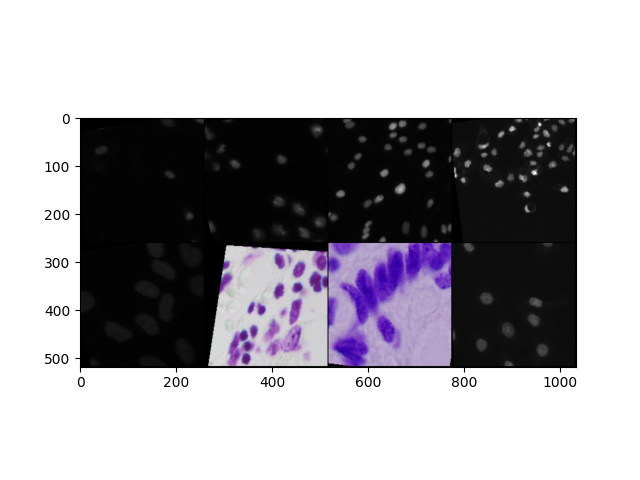
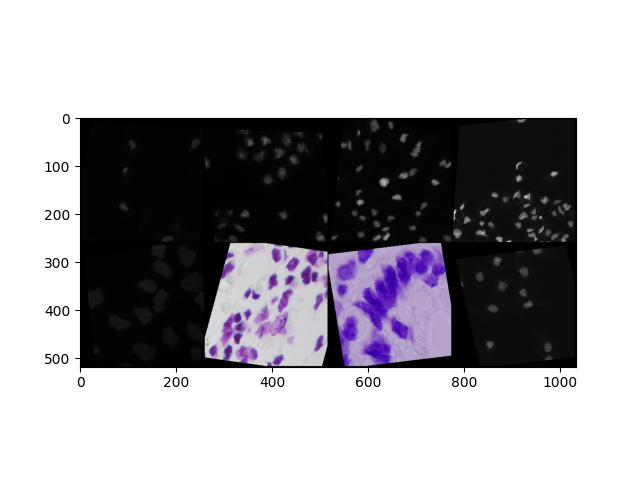
Added wide-resnet50 with skip connections and elastic transformation

diff --git a/models/my_models.py b/models/my_models.py
@@ -292,11 +292,115 @@ class wide_resnet101_seg(nn.Module):
             return torch.optim.SGD(self.parameters(), lr=lr, momentum=0.9)
 
 
+#############################################################
+# SEGNET WITH PRETRAINED WIDE_RESNET50 AND SKIP CONNECTIONS #
+#############################################################
+
+class up_block_skip(nn.Module):
+    '''
+    Basic convolutional block for the upsampling part of the
+    wide-resnet for segmentation with skip connections
+    '''
+    def __init__(self, in_channels, skip_channels):
+        super(up_block_skip, self).__init__()
+        self.up_layers = nn.Sequential(
+            nn.ConvTranspose2d(in_channels, in_channels//2, kernel_size=2, stride=2),
+            nn.BatchNorm2d(in_channels//2),
+            nn.ReLU(inplace=True)
+        )
+        self.conv_block = nn.Sequential(
+            nn.Conv2d((in_channels//2)+skip_channels, ((in_channels//2)+skip_channels)//2, kernel_size=3, stride=1, padding=1),
+            nn.BatchNorm2d(((in_channels//2)+skip_channels)//2),
+            nn.ReLU(inplace=True)
+        )    
+
+    def forward(self, x, x_skip):
+        x = self.up_layers(x)
+        x_cat = torch.cat([x, x_skip], dim=1)
+        return self.conv_block(x_cat)
+
+
+class wide_resnet50_seg_skip(nn.Module):
+    def __init__(self, out_channels=1):
+        super(wide_resnet50_seg_skip, self).__init__()
+
+        pretrained_wide_resnet50 = wide_resnet50_2(pretrained=True)
+        # Get the list of modules of the net
+        wide_resnet50_modules = list(pretrained_wide_resnet50.children())
+
+        # Take the first conv block
+        self.conv1 = wide_resnet50_modules[0]
+        self.bn1 = wide_resnet50_modules[1]
+        self.relu1 = wide_resnet50_modules[2]
+        self.maxpool1 = wide_resnet50_modules[3]
+        # To correct the size of the tensor to concatenate it before the last conv block
+        self.skip_correction = nn.ConvTranspose2d(64, 64, kernel_size=2, stride=2)
+        # Get the bottleneck blocks from the submodules
+        bottleneck_chain = list(wide_resnet50_modules[4].children())
+        self.bottleneck1 = bottleneck_chain[0]
+        self.bottleneck2 = bottleneck_chain[1]
+        self.bottleneck3 = bottleneck_chain[2]
+        # Get the bottleneck blocks from the submodules
+        bottleneck_chain = list(wide_resnet50_modules[5].children())
+        self.bottleneck4 = bottleneck_chain[0]
+        self.bottleneck5 = bottleneck_chain[1]
+        self.bottleneck6 = bottleneck_chain[2]
+        self.bottleneck7 = bottleneck_chain[3]
+        # Create the upsampling blocks
+        self.up_block1 = up_block_skip(512, 256)
+        self.up_block2 = up_block_skip(256, 64)
+        self.up_block3 = up_block_skip(96, 64)
+        # Create the block to reduce channels
+        self.squeeze_block = squeeze_block(56, out_channels)
+        # Create the output activation function
+        if out_channels == 1:
+            self.act = nn.Sigmoid()
+        else:
+            self.act = nn.Softmax2d()
+
+    def forward(self, x):
+        x1 = self.conv1(x)
+        x2 = self.bn1(x1)
+        x3 = self.relu1(x2)
+        x_skip = self.skip_correction(x3)
+        x4 = self.maxpool1(x3)
+        x5 = self.bottleneck1(x4)
+        x6 = self.bottleneck2(x5)
+        x7 = self.bottleneck3(x6)
+        x8 = self.bottleneck4(x7)
+        x9 = self.bottleneck5(x8)
+        x10 = self.bottleneck6(x9)
+        x11 = self.bottleneck6(x10)
+        x12 = self.up_block1(x11, x7)
+        x13 = self.up_block2(x12, x3)
+        x14 = self.up_block3(x13, x_skip)
+        x15 = self.squeeze_block(x14)
+        return self.act(x15)
+
+    def set_freeze(self, flag):
+        '''
+        set the freeze for the weights of the pretrained wide-resnet50
+        '''
+        for name, param in self.named_parameters():
+            if not name.startswith("skip") and not name.startswith("up") and not name.startswith("squeeze"):
+                param.requires_grad = not flag
+
+    def get_criterion(self):
+        # This loss combines sigmoid layer with BCELoss for better numerical stability
+        return nn.BCEWithLogitsLoss()
+
+    def get_optimizer(self, opt="Adam", lr=0.0002):
+        if opt == "Adam":
+            return torch.optim.Adam(self.parameters(), lr=lr)
+        elif opt == "SGD":
+            return torch.optim.SGD(self.parameters(), lr=lr, momentum=0.9)
+
 
 if __name__ == "__main__":
-    model = wide_resnet50_seg()
+    model = wide_resnet50_seg_skip()
     dummy_input = torch.zeros((16, 3, 256, 256))
     output = model(dummy_input)
     print(model)
     print(output.shape)
+    model.set_freeze(True)
 

diff --git a/train.py b/train.py
@@ -9,7 +9,7 @@ from torchvision import transforms
 from matplotlib import pyplot as plt
 from lib.data_generators import Cells_dataset
 from lib.utils import *
-from models.my_models import U_net, wide_resnet50_seg, wide_resnet101_seg
+from models.my_models import U_net, wide_resnet50_seg, wide_resnet50_seg_skip, wide_resnet101_seg
 
 ##########################
 # Check computing device #
@@ -45,11 +45,12 @@ batch_size = 32
 The available model architectures are:
 - "u-net"
 - "wide-resnet50"
+- "wide-resnet50-skip"
 - "wide-resnet101"
 '''
-model_name = "wide-resnet101"
+model_name = "wide-resnet50-skip"
 
-# Freeze config ** ONLY FOR wide-resnet50 and wide-resnet101 **
+# Freeze config ** ONLY FOR resnet models **
 freeze_epochs = 100  # Number of epochs to train with pretrained weights frozen
 
 # Optimizer config
@@ -57,11 +58,12 @@ optimizer_name = "Adam"  # Options "Adam", "SGD"
 learning_rate = 0.001
 
 # Data loader settings
-data_augmentation = True
-make_crops = True   # For making random crops after the data agumentation
-num_workers = 2     # Processes for loading data in parallel
-multi_gpu = True    # Enables multi-gpu training if it is possible
-pin_memory = True   # Pin memory for extra speed loading batches in GPU
+data_augmentation = True    # To enable the basic data agumentation and the following features
+elastic_transform = True    # For making elastic transformations before the data augmentation
+make_crops = False          # For making random crops after the data agumentation
+num_workers = 2             # Processes for loading data in parallel
+multi_gpu = True            # Enables multi-gpu training if it is possible
+pin_memory = True           # Pin memory for extra speed loading batches in GPU
 
 # Enable tensorboard
 tensorboard = True
@@ -84,6 +86,7 @@ else:
     sys.exit()
 if data_augmentation: exp_name += "_DA"
 if make_crops: exp_name += "_crops"
+if elastic_transform: exp_name += "_elastic"
 
 print(f"\nGoing to run experiment {exp_name}")
 
@@ -94,7 +97,7 @@ print(f"\nGoing to run experiment {exp_name}")
 # Load dataset info
 data_df = pd.read_csv("../dataset/data_partition.csv")
 # Create train datagen
-train_dataset = Cells_dataset(data_df, "train", data_augmentation=data_augmentation, make_crops=make_crops)
+train_dataset = Cells_dataset(data_df, "train", data_augmentation=data_augmentation, make_crops=make_crops, elastic_transform=elastic_transform)
 train_datagen = DataLoader(train_dataset, batch_size=batch_size, shuffle=True, num_workers=num_workers, pin_memory=pin_memory)
 # Create develoment datagen
 dev_dataset = Cells_dataset(data_df, "dev")
@@ -110,6 +113,8 @@ if model_name == "u-net":
 elif model_name.startswith("wide-resnet"):
     if model_name == "wide-resnet50":
         model = wide_resnet50_seg()
+    if model_name == "wide-resnet50-skip":
+        model = wide_resnet50_seg_skip()
     elif model_name == "wide-resnet101":
         model = wide_resnet101_seg()
     if freeze_epochs > 0:
@@ -213,7 +218,8 @@ if tensorboard:
                     "batch_norm": use_batchnorm,
                     "dropout": dropout,
                     "data_augmentation": data_augmentation,
-                    "crops": make_crops},
+                    "crops": make_crops,
+                    "elastic_transform": elastic_transform},
                     {"hparam/loss": best_loss, "hparam/iou": dev_ious[best_epoch], "hparam/best_epoch": best_epoch})
 
 # Close the tensorboard writer

diff --git a/lib/data_generators.py b/lib/data_generators.py
@@ -1,6 +1,8 @@
 import torch
+import numpy as np
 from torchvision.transforms import functional as transformsF
 from random import random, randint, uniform
+from imgaug import augmenters as iaa
 
 class Cells_dataset(torch.utils.data.Dataset):
     '''
@@ -15,15 +17,18 @@ class Cells_dataset(torch.utils.data.Dataset):
                 - MaskPath -> path to mask output tensor
 
         partition -> Select the dataset partition of the generator. Can be "train" or "dev"
-	data_augmentation -> Flag to enable data augmentation
+        data_augmentation -> Flag to enable data augmentation
+        make_crops -> to enable random crops and then resizing after data augmentation
+        elastic_transform -> to enable elastic transformations before the data agumentation
     '''
-    def __init__(self, data_df, partition="train", data_augmentation=False, make_crops=False):
+    def __init__(self, data_df, partition="train", data_augmentation=False, make_crops=False, elastic_transform=False):
         
         self.partition = partition
         # Store the samples from the selected partition
         self.df = data_df[data_df["Partition"]==partition]
         self.data_augmentation = data_augmentation
         self.make_crops = make_crops
+        self.use_elastic_transform = elastic_transform
 
     '''
     Returns the number of samples in the dataset
@@ -54,6 +59,22 @@ class Cells_dataset(torch.utils.data.Dataset):
     def apply_data_augmentation(self, x_tensor, y_tensor):
 
         c, h, w = x_tensor.shape
+
+        if self.use_elastic_transform:
+            seed = randint(0, 10000)
+            # From channel first to channel last
+            x_tensor = np.einsum("kij->ijk", x_tensor.numpy())
+            y_tensor = np.einsum("kij->ijk", y_tensor.numpy())
+            # Apply the elastic transformation
+            elastic_transformation = iaa.ElasticTransformation(alpha=30, sigma=5, mode="nearest", seed=seed).to_deterministic()
+            x_tensor = elastic_transformation.augment_image(x_tensor) 
+            y_tensor = elastic_transformation.augment_image(y_tensor)
+            # From channel last to channel first
+            x_tensor = np.einsum("ijk->kij", x_tensor)
+            y_tensor = np.einsum("ijk->kij", y_tensor)
+            # Convert to pytorch tensor again
+            x_tensor = torch.from_numpy(x_tensor)
+            y_tensor = torch.from_numpy(y_tensor)
 
         # From pytorch tensor to PIL image (to apply transforms)
         x_image = transformsF.to_pil_image(x_tensor)
@@ -110,7 +131,7 @@ if __name__ == "__main__":
     print("TEST DATA GENERATOR")
 
     data_df = pd.read_csv("../dataset/data_partition.csv")
-    dataset = Cells_dataset(data_df, "train", data_augmentation=True, make_crops=True)
+    dataset = Cells_dataset(data_df, "train", data_augmentation=True, elastic_transform=True)
     dataloader = DataLoader(dataset, batch_size = 8)
     batch = next(iter(dataloader))
      
